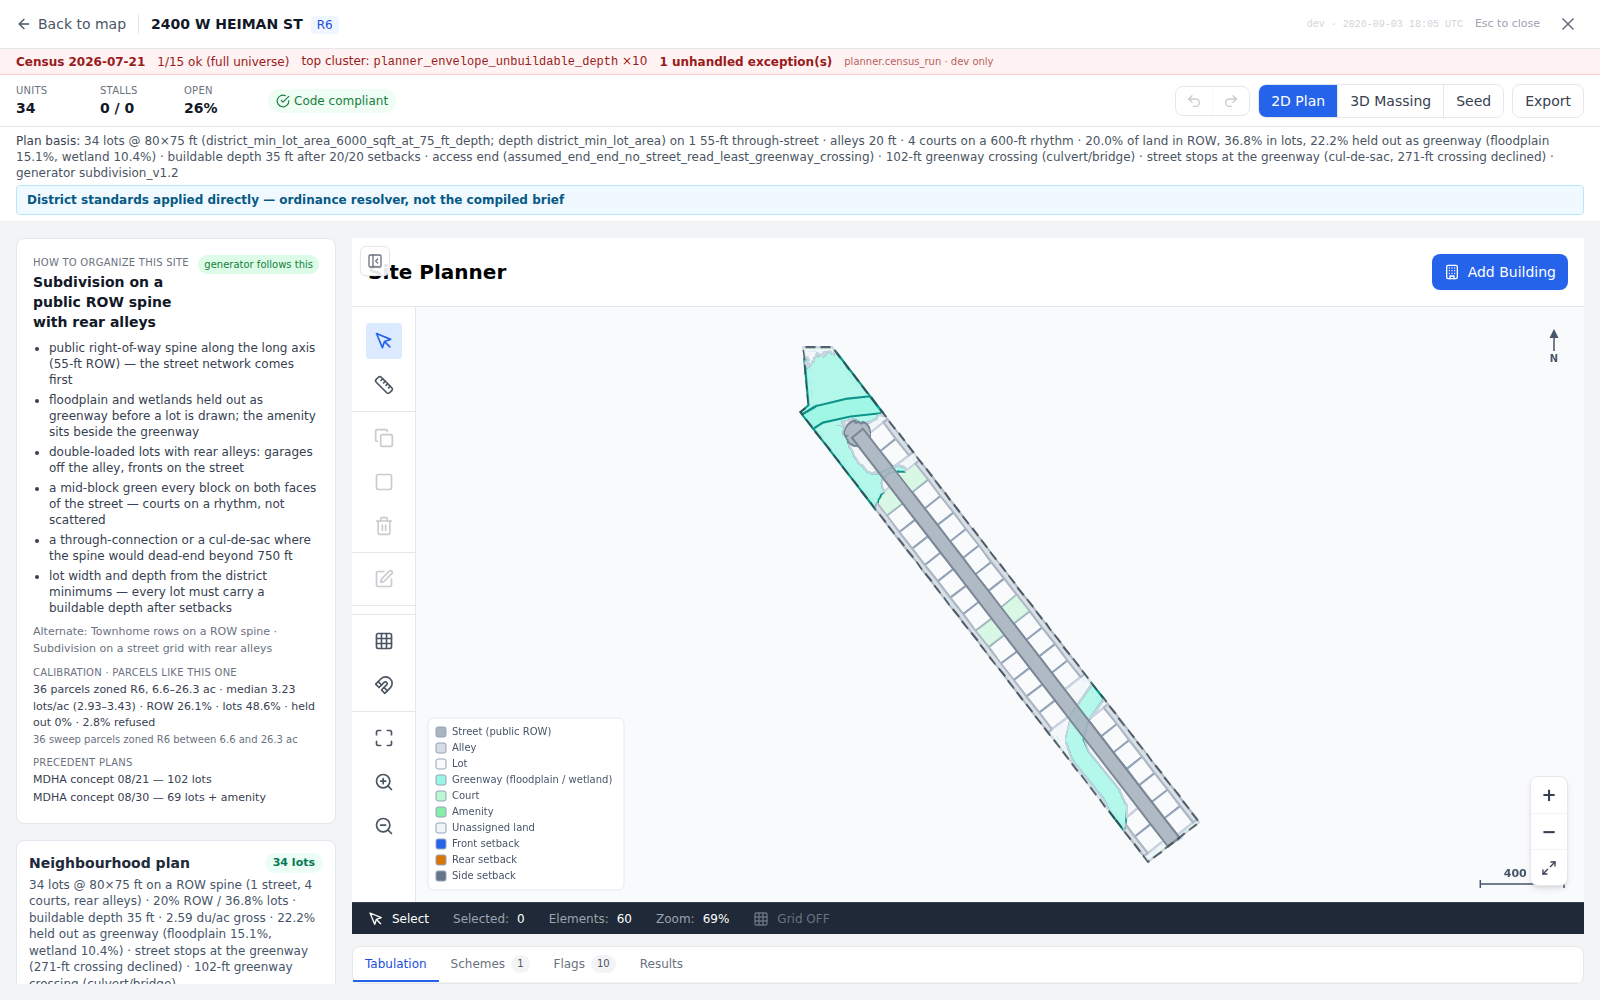
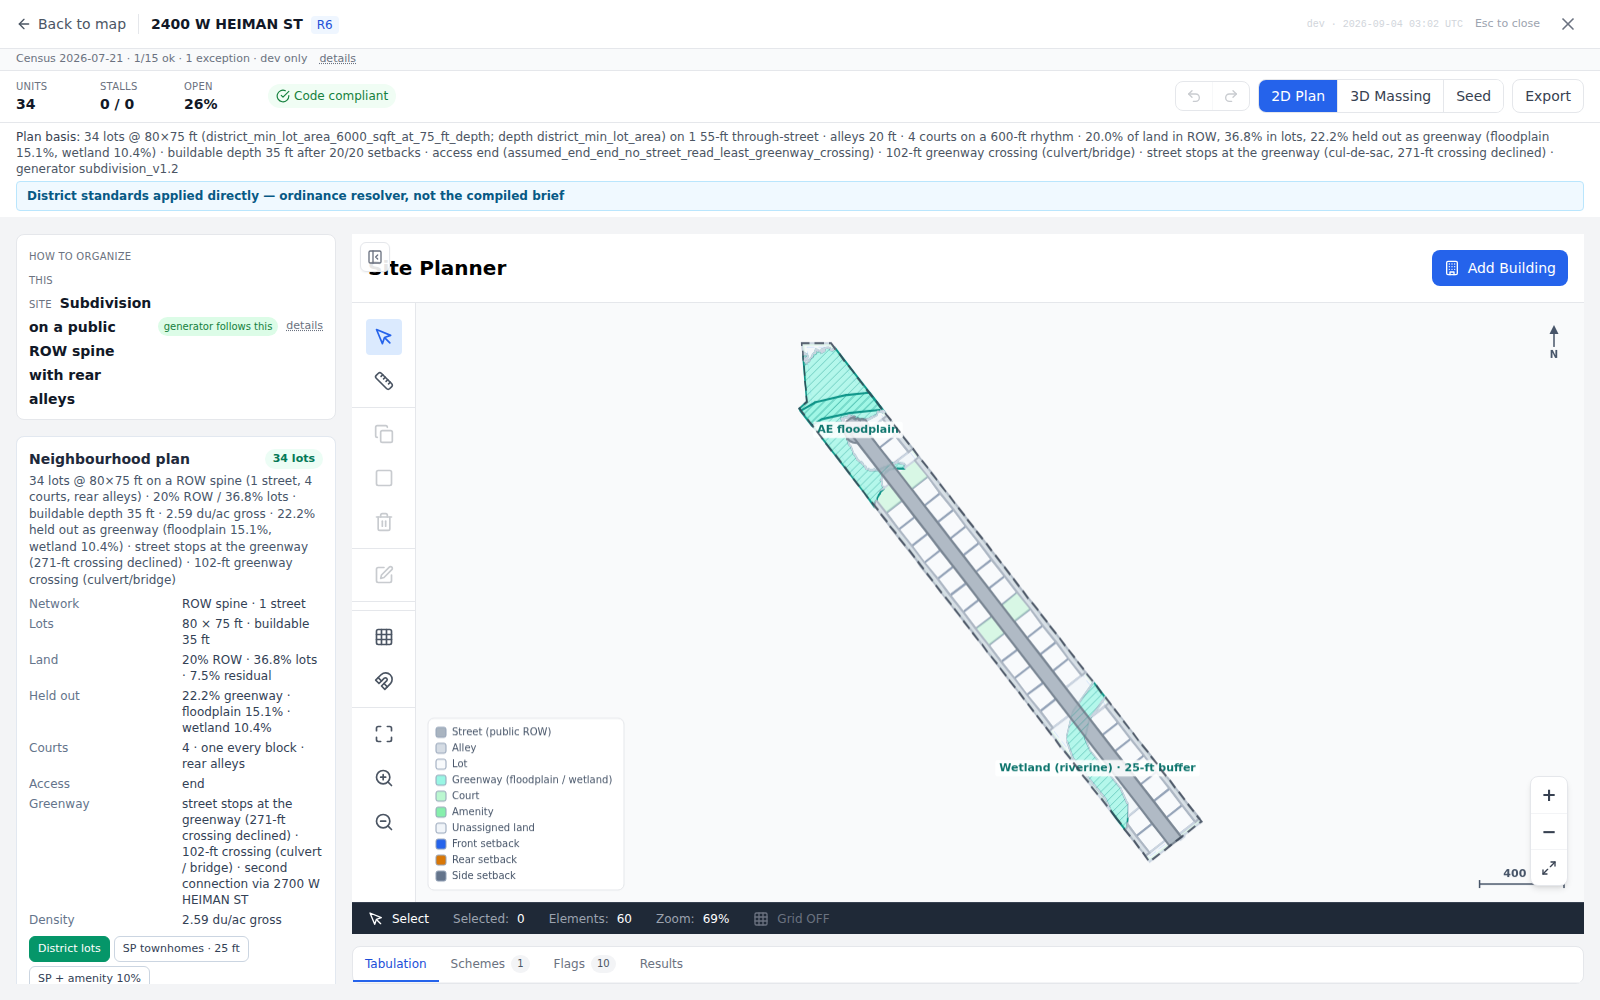
ui: pattern panel header stacks label over name in the narrow rail; qa: 2400 W Heiman render with the hatched, labelled greenway (battery 7/7)
Claude-Session: https://claude.ai/code/session_01KFnG44CWvJSZq6ZtpakBkL

diff --git a/src/features/site-plan/ui/PlanPatternPanel.tsx b/src/features/site-plan/ui/PlanPatternPanel.tsx
@@ -15,14 +15,14 @@ export const PlanPatternPanel: React.FC<{ plan: PlanPattern; defaultOpen?: boole
   const aligned = align?.aligned === true;
   return (
     <div data-testid="plan-pattern-panel" className="bg-white border border-gray-200 rounded-lg px-3 py-2">
-      <div className="flex items-center justify-between gap-2">
+      <div className="flex items-start justify-between gap-2">
         <div className="min-w-0">
-          <span className="text-[10px] uppercase tracking-wide text-gray-500 mr-2">How to organize this site</span>
-          <span data-testid="plan-pattern-name" className="text-sm font-semibold text-gray-900">
+          <div className="text-[10px] uppercase tracking-wide text-gray-500">How to organize this site</div>
+          <div data-testid="plan-pattern-name" className="text-sm font-semibold text-gray-900 leading-snug">
             {patternLabel(plan.pattern)}
-          </span>
+          </div>
         </div>
-        <div className="flex items-center gap-2 flex-shrink-0">
+        <div className="flex items-center gap-2 flex-shrink-0 pt-3">
           <span
             data-testid="plan-pattern-alignment"
             title={align?.note ?? ''}
